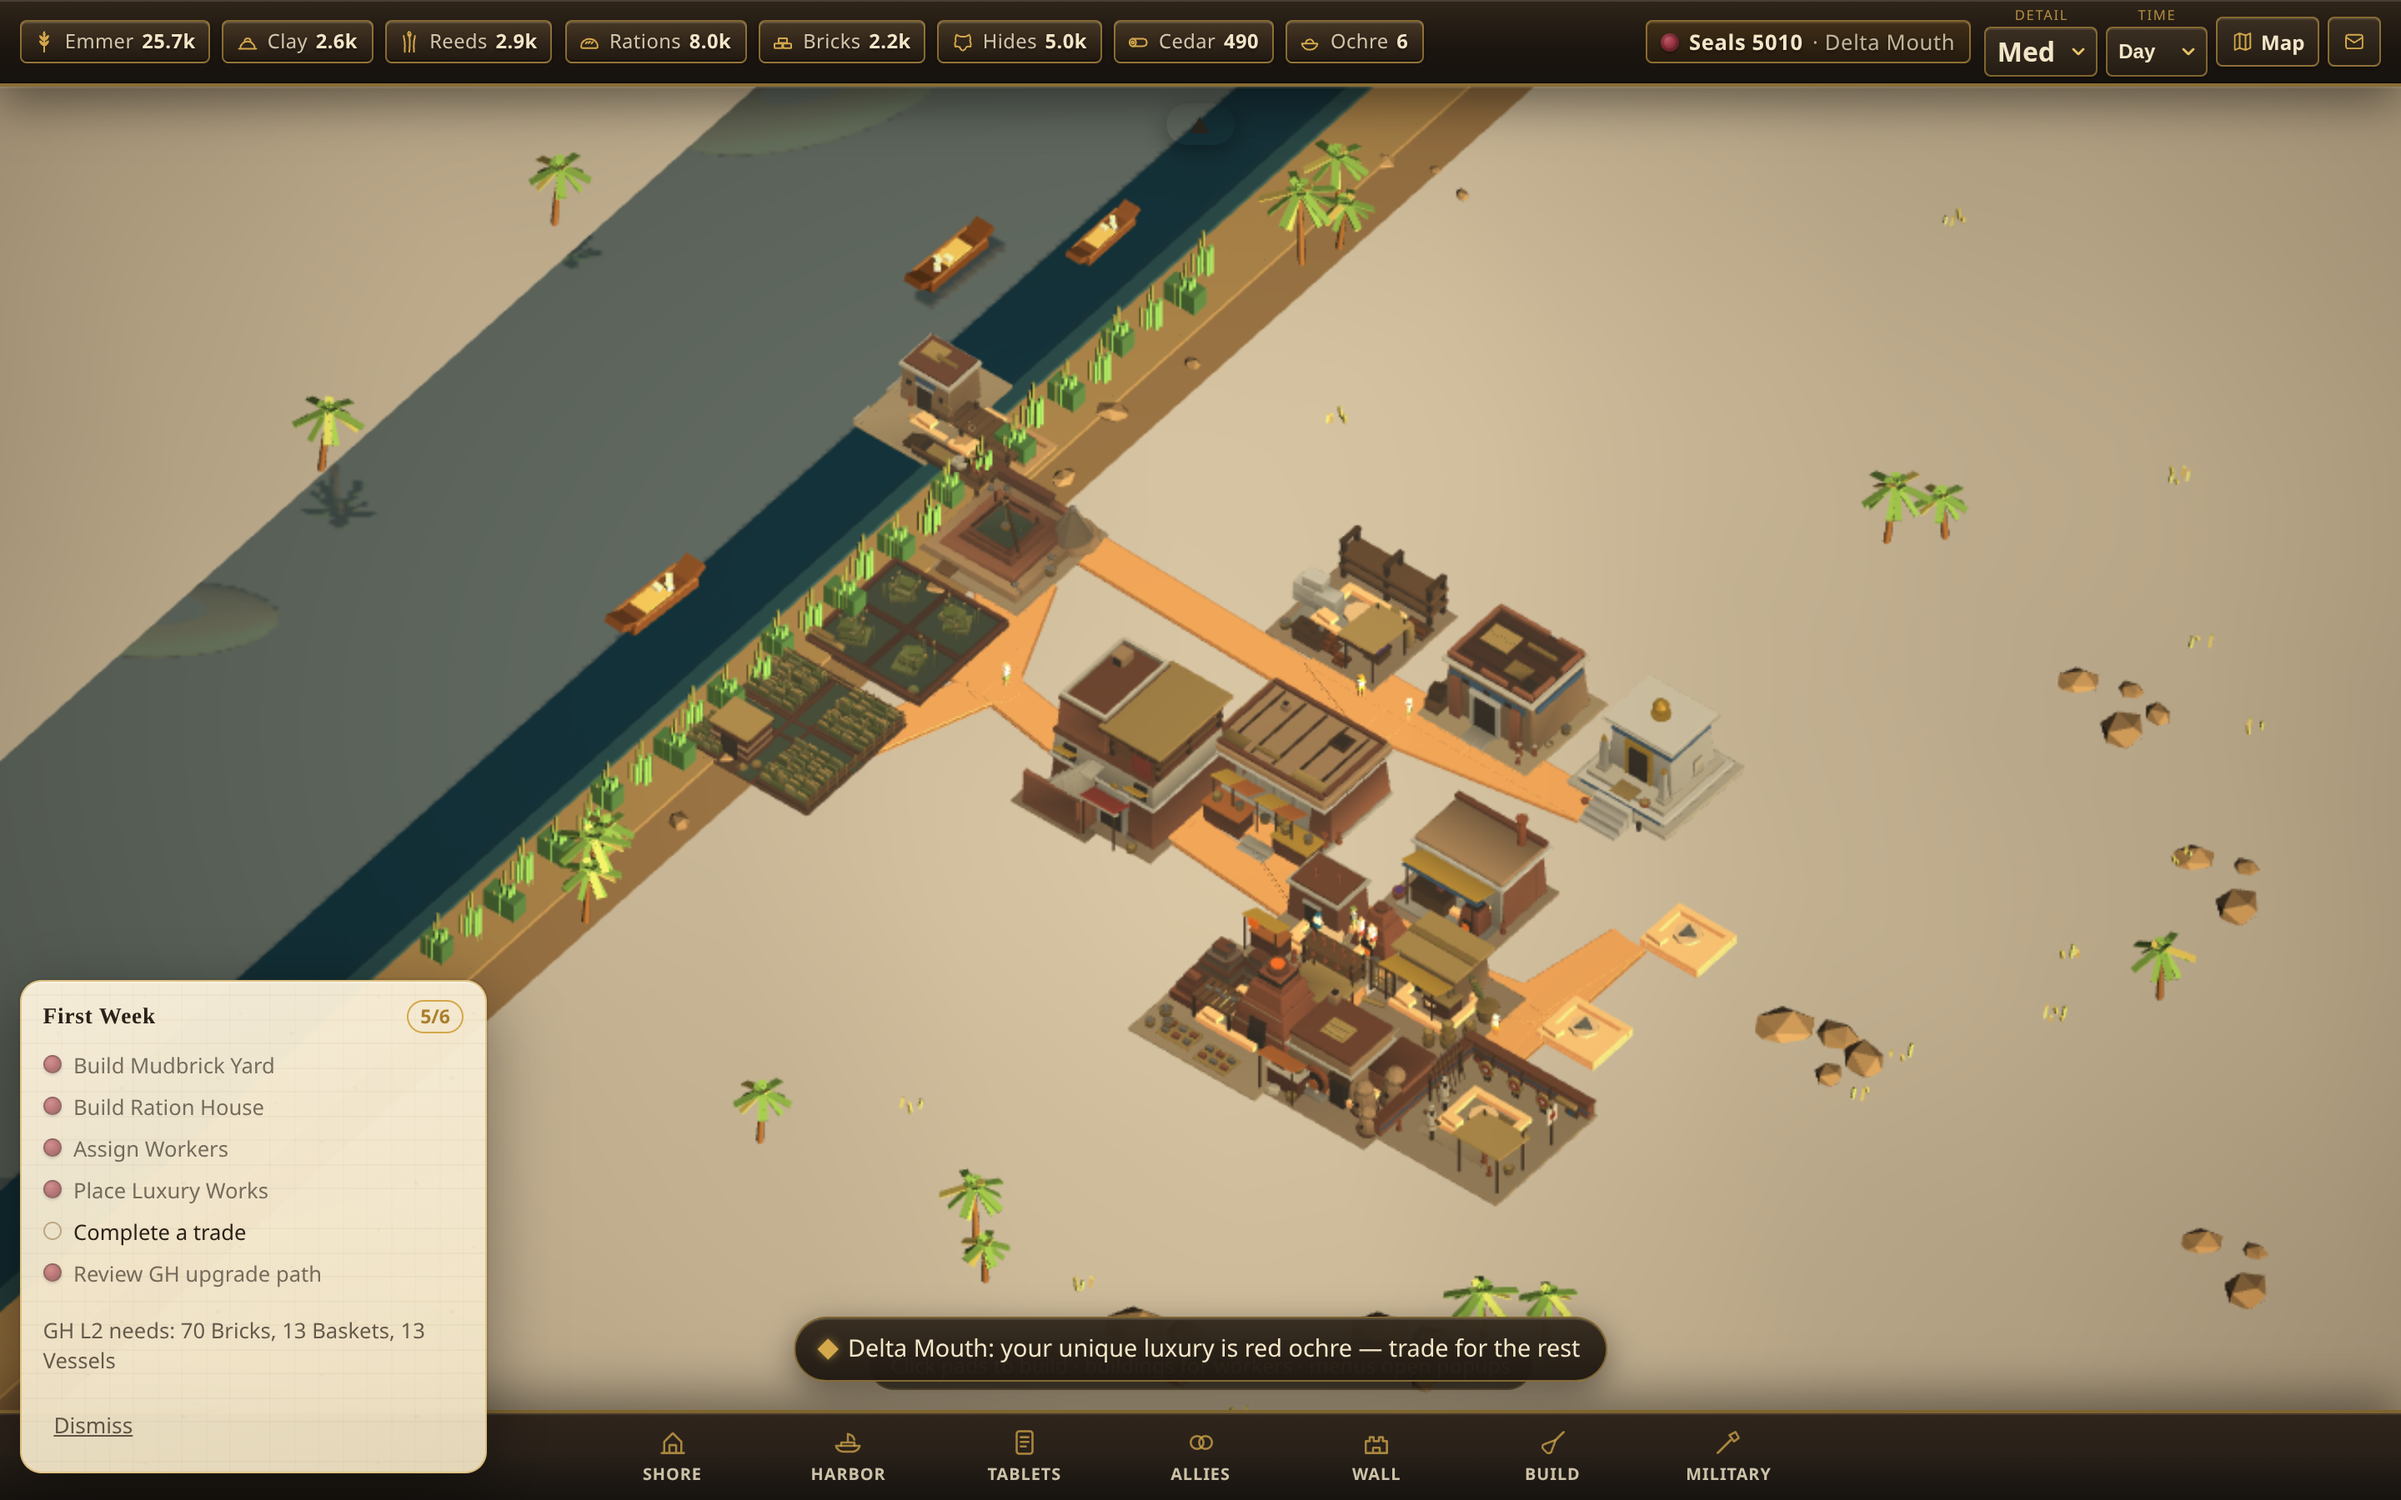
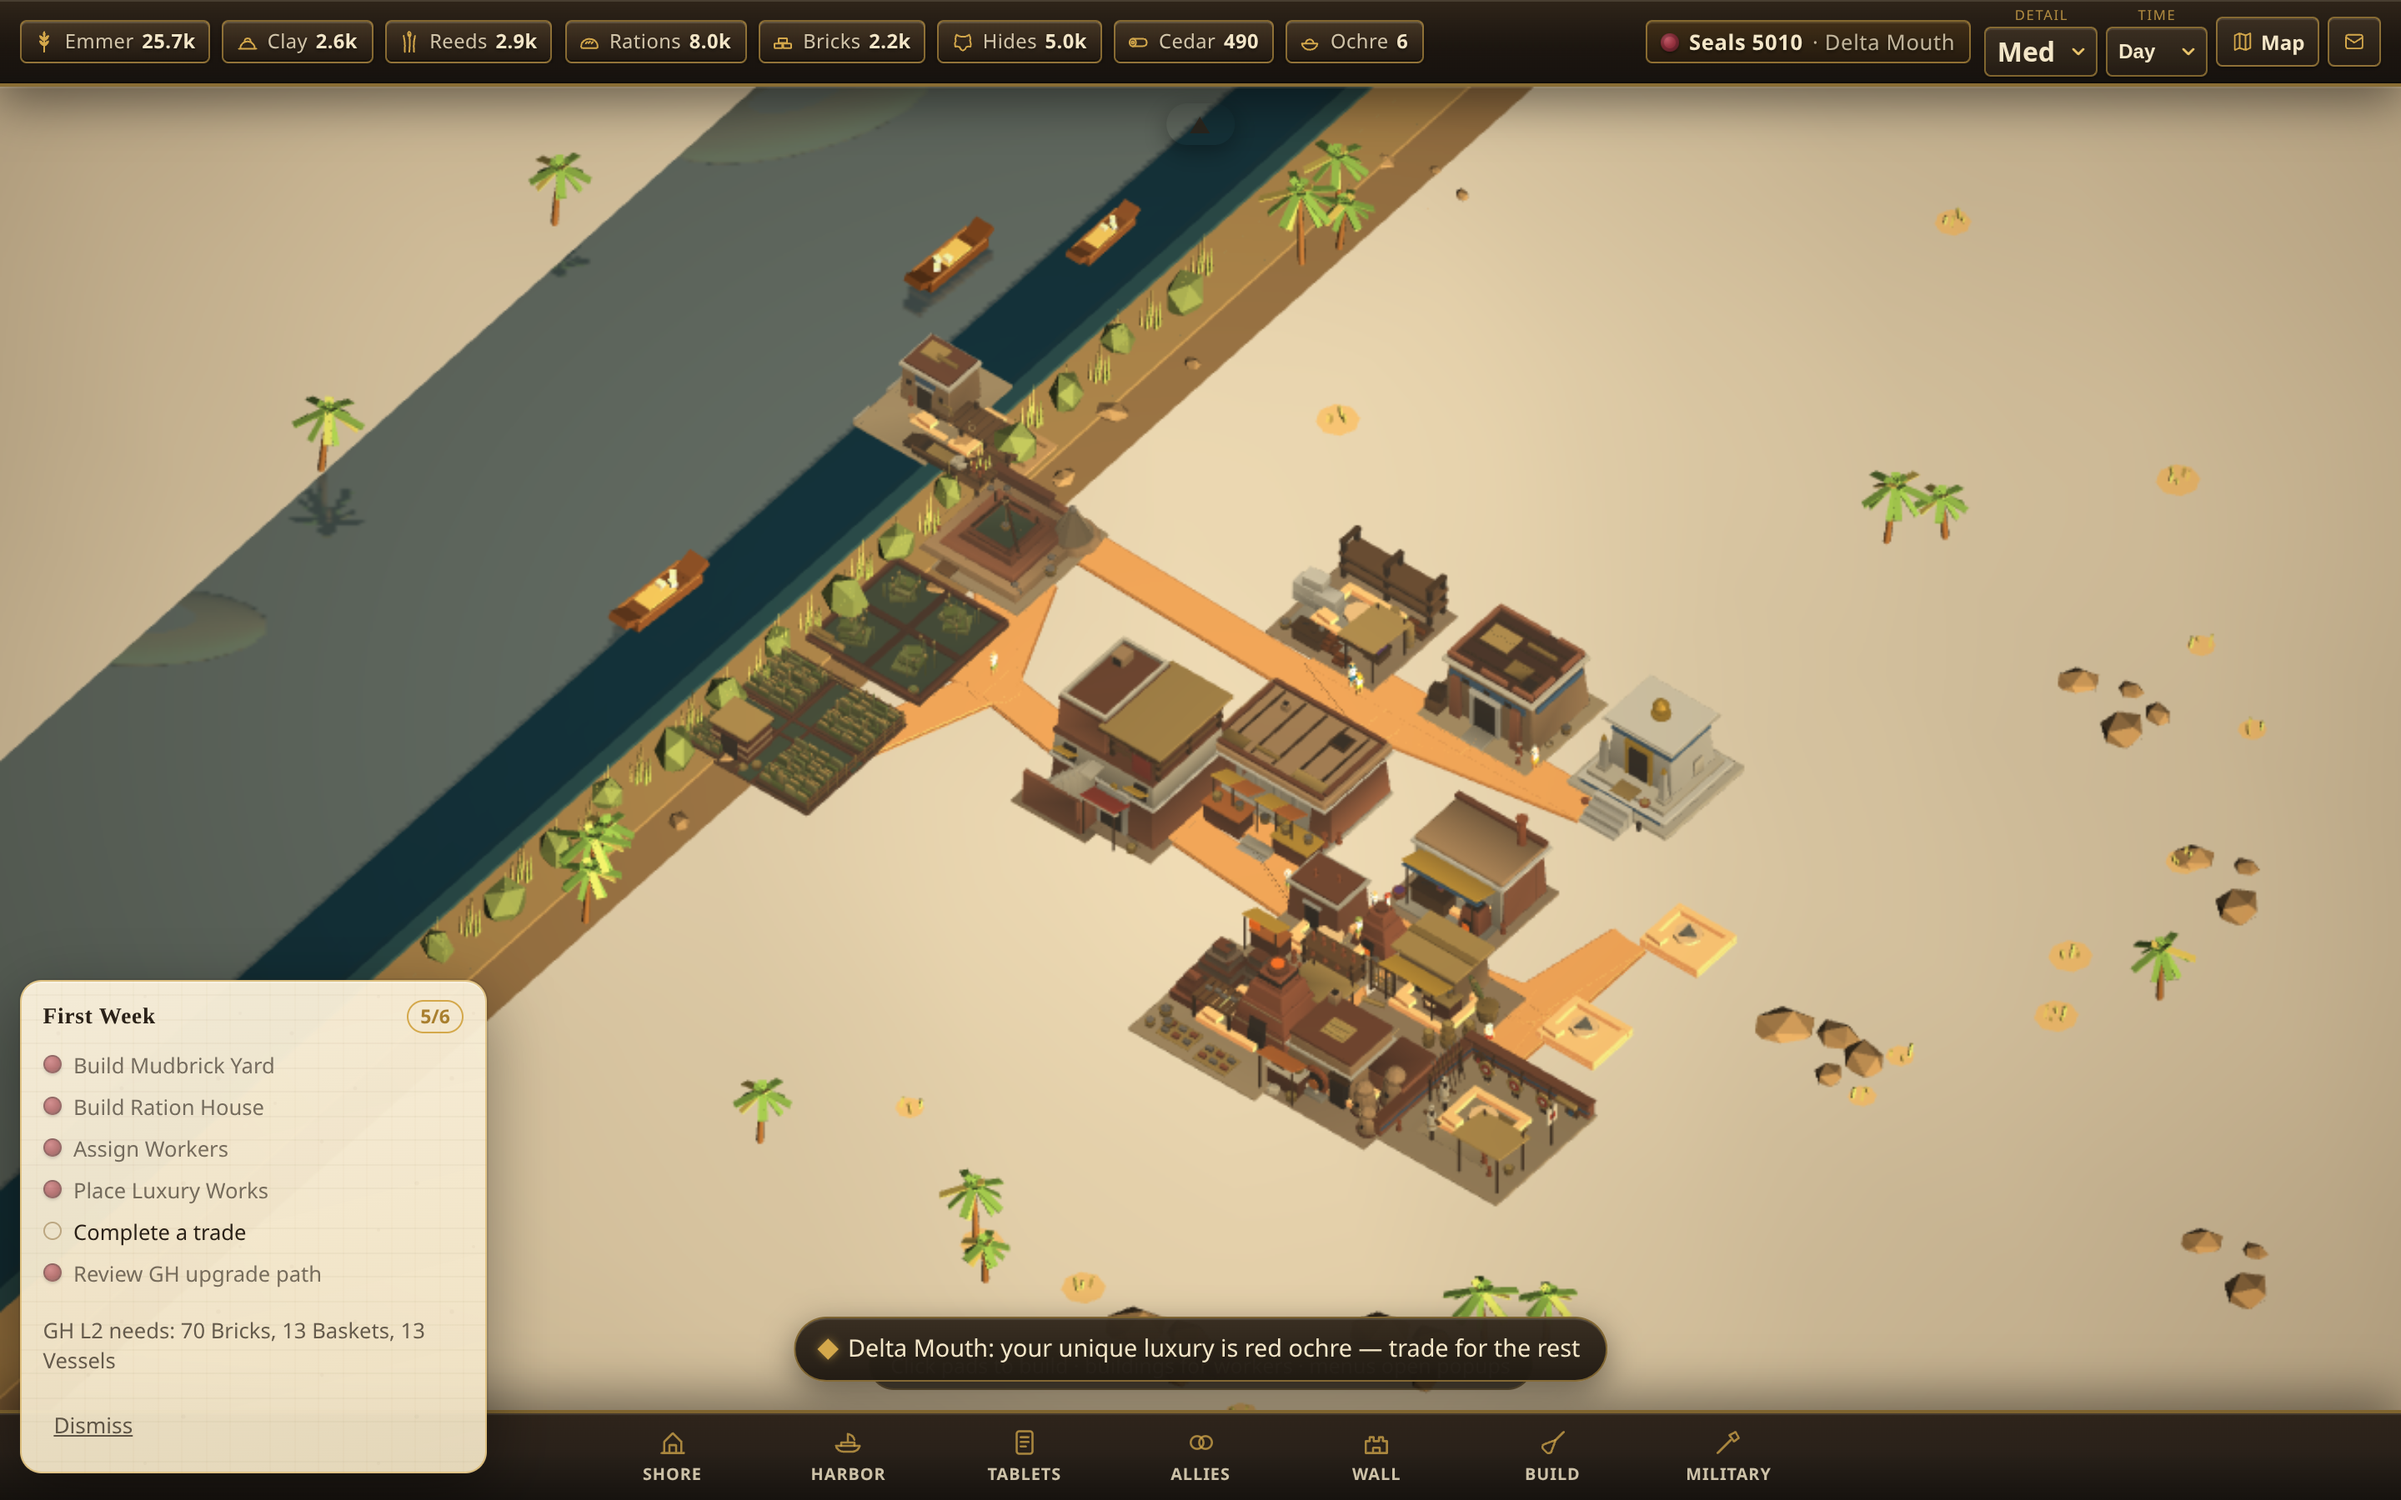
fix(overhaul-r7): sky-gold SOLVED (unanchored scrub) + olive banks + summed night lamps
The recurring 'gold floating in the sky' was a dry scrub cluster on
featureless sand — ortho projection with no contact cue. Scrub clusters now
sit on contact patches; dry tone desaturated. Kit templates parked at y-60
as belt-and-braces. Bank reeds: olive tapered stalks + faceted mounds (the
true 'neon cylinders/green cubes' — scene-side, not kit-side). Night: 4
quarter PointLights. Panels open scrolled to top.

diff --git a/apps/client/src/render/scene.ts b/apps/client/src/render/scene.ts
@@ -573,7 +573,7 @@ export class SettlementView {
     scrubMat.diffuseColor = hexToColor3("#8A8A52");
     scrubMat.specularColor = Color3.Black();
     const scrubDryMat = new StandardMaterial("scrubDryMat", this.scene);
-    scrubDryMat.diffuseColor = hexToColor3("#AA9A64");
+    scrubDryMat.diffuseColor = hexToColor3("#918655");
     scrubDryMat.specularColor = Color3.Black();
 
     const groundY = (wx: number, wz: number) => {
@@ -726,6 +726,21 @@ export class SettlementView {
         if (inPlots) continue;
       }
       const y0 = groundY(sx, sz);
+      // contact patch anchors the cluster — ortho projection makes floating
+      // unanchored tufts read as gold bars in the sky over featureless sand
+      const patch = MeshBuilder.CreateDisc(
+        `scrubPatch-${i}`,
+        { radius: 0.3 + (i % 3) * 0.08, tessellation: 8 },
+        this.scene
+      );
+      patch.rotation.x = Math.PI / 2;
+      patch.position.set(sx, y0 + 0.012, sz);
+      const pm = new StandardMaterial(`scrubPatchMat-${i}`, this.scene);
+      pm.diffuseColor = hexToColor3("#B39A70");
+      pm.specularColor = Color3.Black();
+      patch.material = pm;
+      patch.parent = this.envRoot;
+      patch.isPickable = false;
       const tufts = 3 + (i % 3);
       for (let t = 0; t < tufts; t++) {
         const th = 0.14 + ((t * 3 + i) % 4) * 0.06;
@@ -1101,14 +1116,14 @@ export class SettlementView {
 
     // Dense reed BEDS — mass silhouettes + stalks (Ground craft, not sparse sticks)
     const reedMat = new StandardMaterial("envReed", this.scene);
-    reedMat.diffuseColor = hexToColor3(STYLE.reedGreen);
+    reedMat.diffuseColor = hexToColor3("#6E7C44"); // olive, not neon
     reedMat.specularColor = Color3.Black();
-    reedMat.emissiveColor = hexToColor3(STYLE.reedGreen).scale(0.04);
+    reedMat.emissiveColor = hexToColor3("#3A4426").scale(0.05);
     const reedMatDry = new StandardMaterial("envReedDry", this.scene);
-    reedMatDry.diffuseColor = hexToColor3("#6A7040");
+    reedMatDry.diffuseColor = hexToColor3("#8A8452");
     reedMatDry.specularColor = Color3.Black();
     const reedMassMat = new StandardMaterial("reedMassMat", this.scene);
-    reedMassMat.diffuseColor = hexToColor3("#3A5A38");
+    reedMassMat.diffuseColor = hexToColor3("#55613A");
     reedMassMat.emissiveColor = hexToColor3("#2A4028").scale(0.08);
     reedMassMat.specularColor = Color3.Black();
     // Solid clumps — translucent boxes read as ghost geometry at close range
@@ -1119,12 +1134,14 @@ export class SettlementView {
       const bx = -10.25 + (bed % 3) * 0.14;
       // Mass clump silhouette (reads at mid-iso without counting stalks)
       if (bed % 2 === 0) {
-        const mass = MeshBuilder.CreateBox(
+        const mass = MeshBuilder.CreatePolyhedron(
           `reedMass-${bed}`,
-          { width: 0.55 + (bed % 3) * 0.12, height: 0.55 + (bed % 2) * 0.15, depth: 0.4 },
+          { type: 3, size: 0.3 + (bed % 3) * 0.06 },
           this.scene
         );
-        mass.position.set(bx, 0.32, bz);
+        mass.scaling.set(1.1, 1.25, 0.85);
+        mass.position.set(bx, 0.3, bz);
+        mass.rotation.y = bed * 0.9;
         mass.material = reedMassMat;
         mass.parent = this.envRoot;
         mass.isPickable = false;
@@ -1134,8 +1151,9 @@ export class SettlementView {
         const r = MeshBuilder.CreateCylinder(
           `envReed-${reedI++}`,
           {
-            height: 0.6 + (s % 4) * 0.2,
-            diameter: 0.08 + (s % 3) * 0.02,
+            height: 0.55 + (s % 4) * 0.16,
+            diameterBottom: 0.07 + (s % 3) * 0.02,
+            diameterTop: 0.015,
             tessellation: 5,
           },
           this.scene

diff --git a/apps/client/src/render/atmosphere.ts b/apps/client/src/render/atmosphere.ts
@@ -23,6 +23,7 @@ export class Atmosphere {
   private hemi: HemisphericLight;
   private ghLight: PointLight;
   private marketLight: PointLight;
+  private quarterLamps: PointLight[] = [];
   private t0 = performance.now() * 0.001;
   /** Full cycle seconds (default ~90s for readable TOD in playtest). */
   cycleSeconds = 90;
@@ -46,6 +47,16 @@ export class Atmosphere {
     this.marketLight.diffuse = hexToColor3("#FFD080");
     this.marketLight.intensity = 0;
     this.marketLight.range = 6;
+    // Quarter lamps: night reads as summed sources, not one radial pool
+    for (const [qx, qz, r] of [
+      [1.2, 6.8, 5], [3.8, -2.6, 5.5], [-6.2, 1.2, 4.5], [5.8, 3.4, 4.5],
+    ] as const) {
+      const lamp = new PointLight(`qLamp-${qx}-${qz}`, new Vector3(qx, 1.6, qz), scene);
+      lamp.diffuse = hexToColor3("#FFB868");
+      lamp.intensity = 0;
+      lamp.range = r;
+      this.quarterLamps.push(lamp);
+    }
     this.scene.fogMode = Scene.FOGMODE_NONE;
     this.scene.fogDensity = 0;
     this.scene.fogColor = hexToColor3("#B8C8D0");
@@ -144,6 +155,10 @@ export class Atmosphere {
     // Night local lamps (window/hearth falloff — not roof flood)
     this.ghLight.intensity = n > 0.55 ? 2.2 * (n - 0.4) : 0;
     this.marketLight.intensity = n > 0.55 ? 1.6 * (n - 0.4) : 0;
+    for (let qi = 0; qi < this.quarterLamps.length; qi++) {
+      const lamp = this.quarterLamps[qi]!;
+      lamp.intensity = n > 0.55 ? (1.1 + (qi % 3) * 0.25) * (n - 0.4) : 0;
+    }
 
     // PRESERVE dark depth water — never lerp toward candy riverLight
     if (river) {

diff --git a/apps/client/src/render/kitLoader.ts b/apps/client/src/render/kitLoader.ts
@@ -92,7 +92,10 @@ export async function preloadBuildingKits(scene: Scene): Promise<KitCache> {
             m.position.z -= cz;
           }
         }
-        root.position = Vector3.Zero();
+        // Park the template far underground AND disabled: some render
+        // paths (reflection RTTs, shadow passes) have historically drawn
+        // template pieces hovering at the origin ("gold in the sky").
+        root.position = new Vector3(0, -60, 0);
         root.setEnabled(false);
         cache.set(file, { root, meshes });
       } catch (e) {
